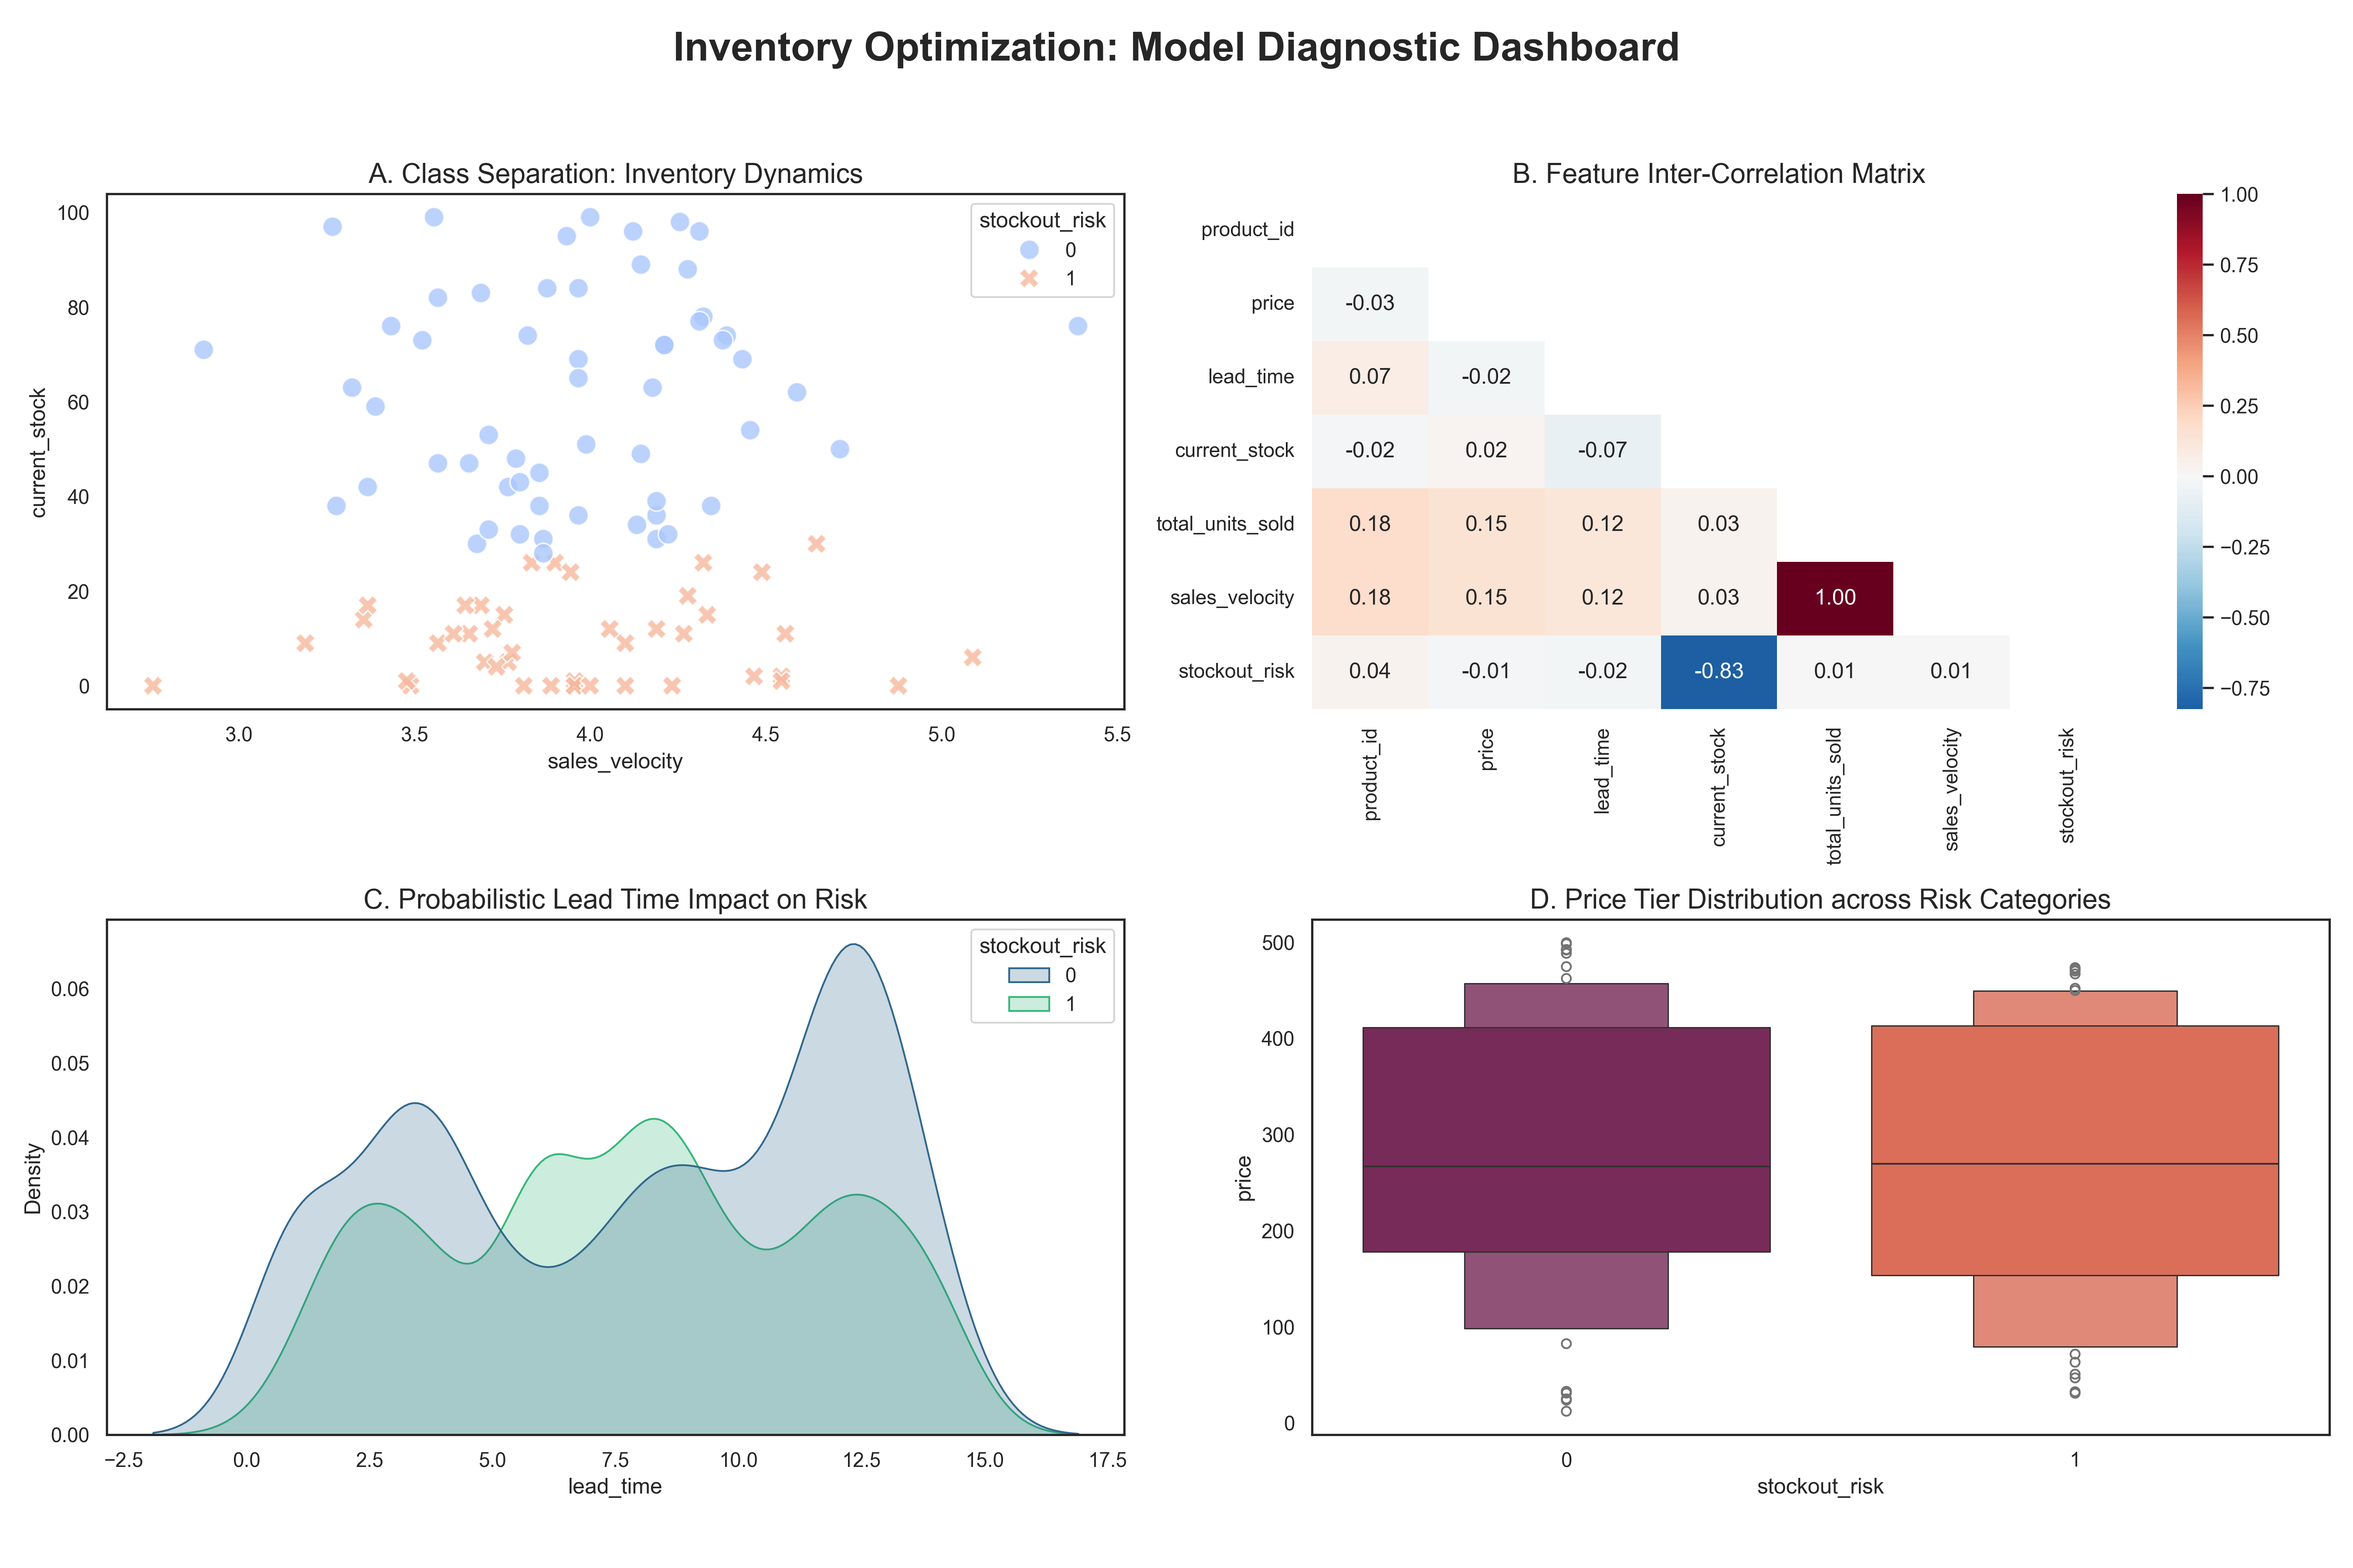
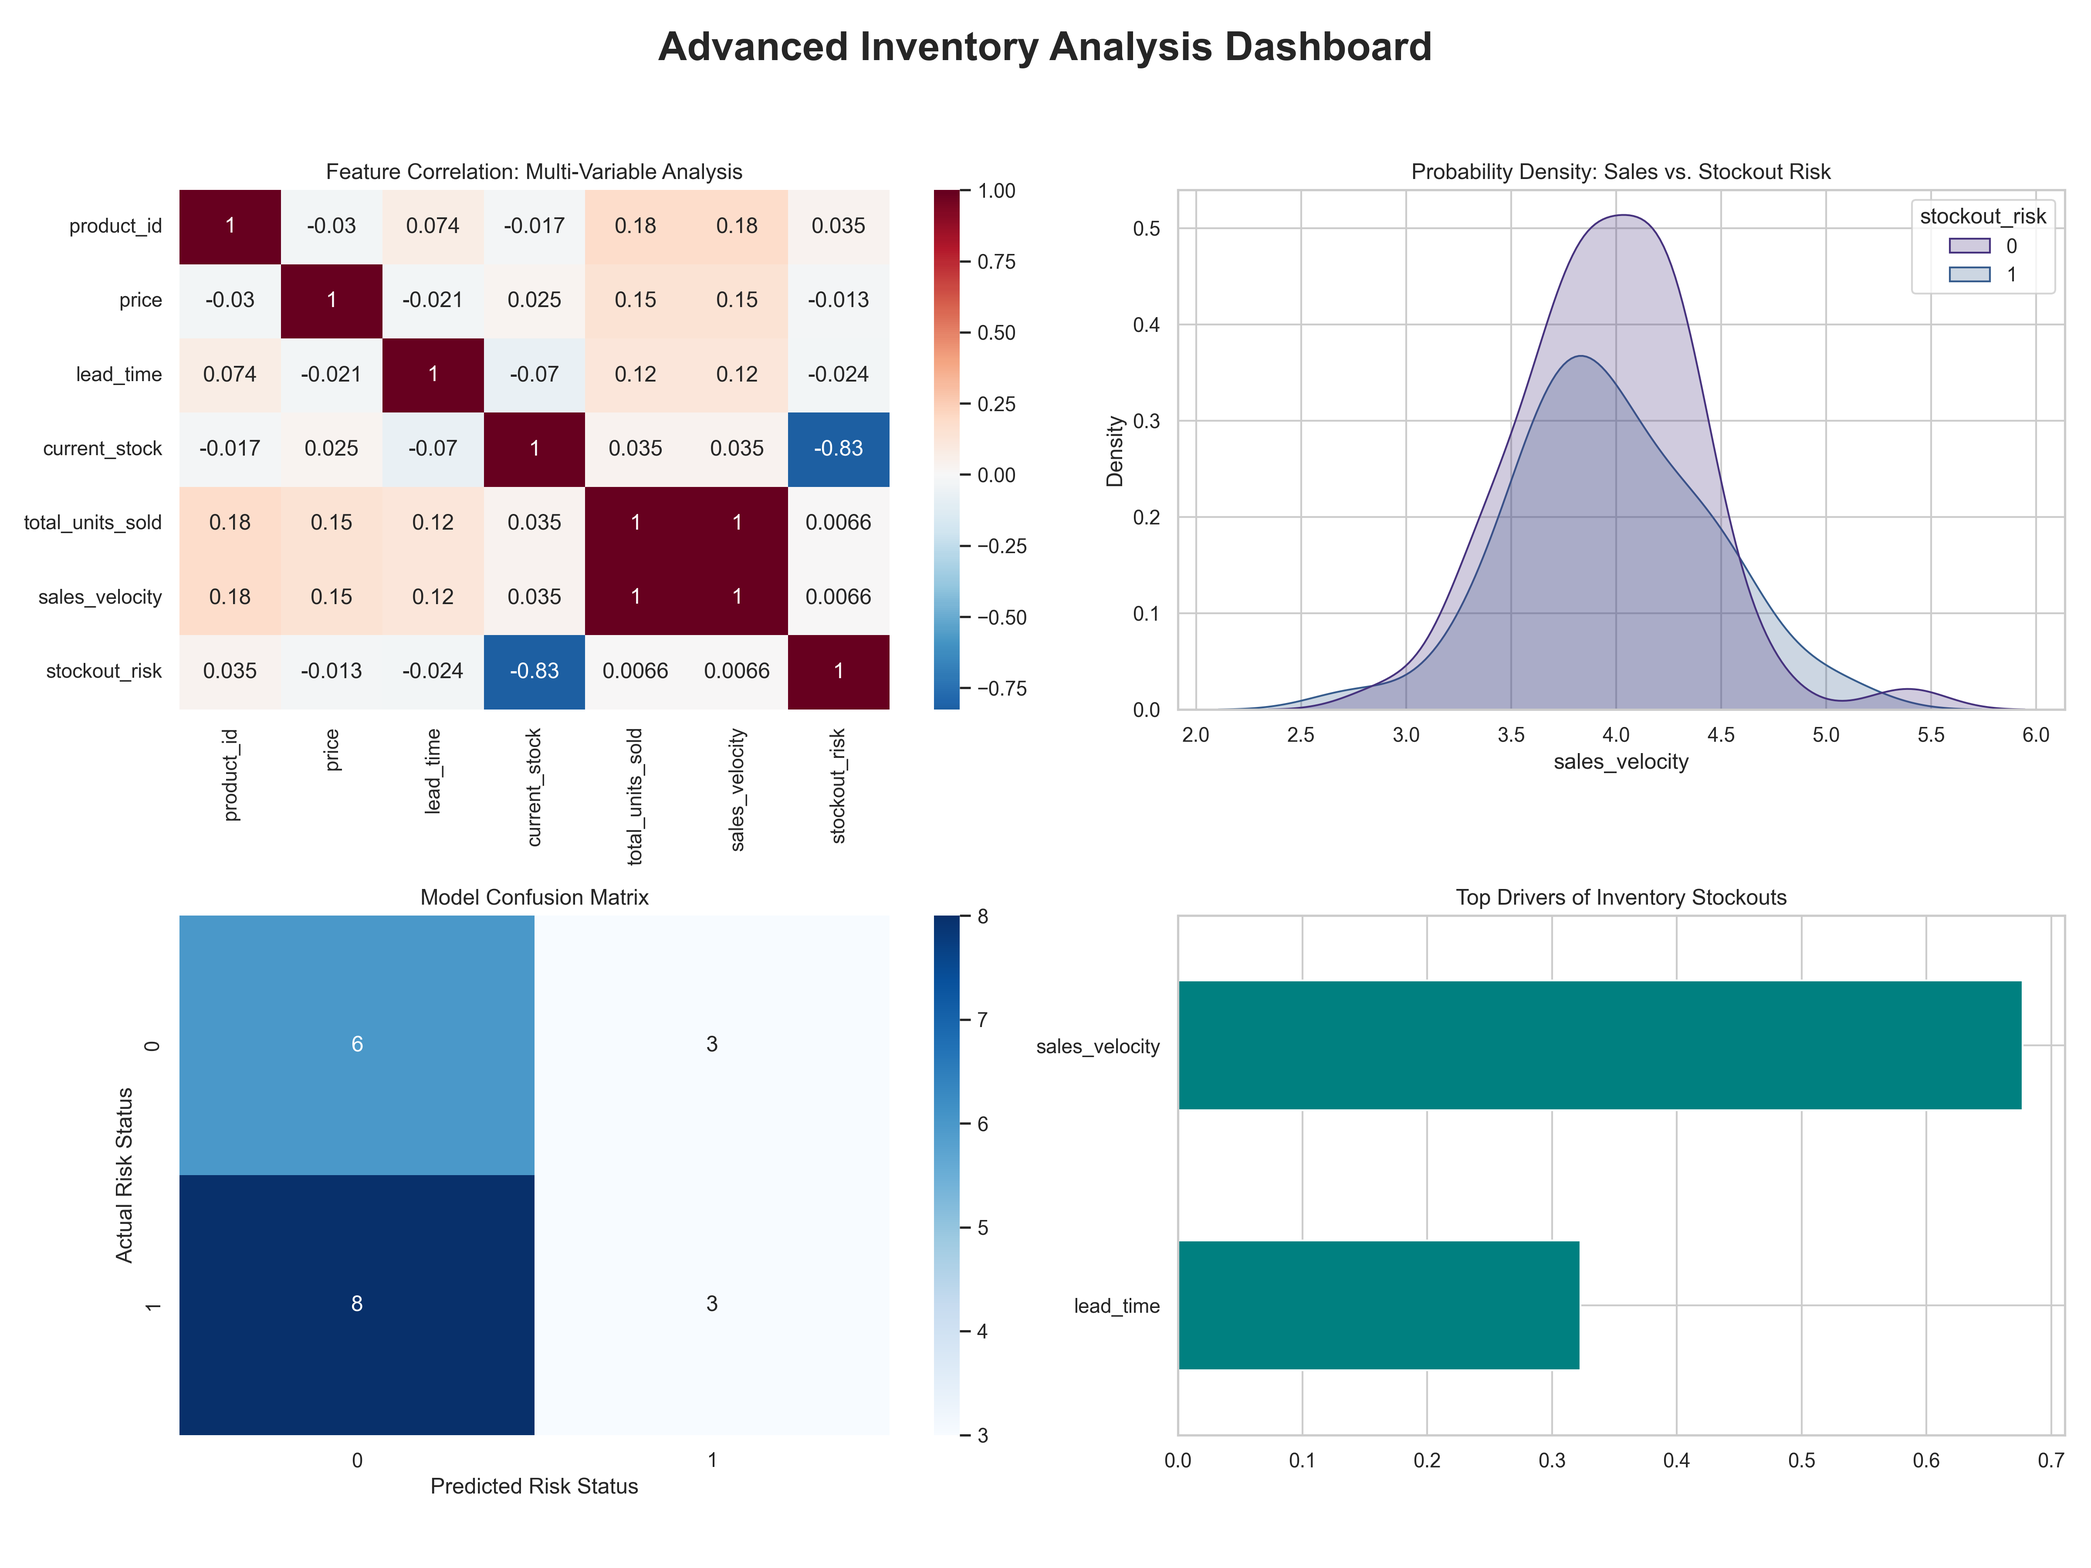
Inventory Optimizer Completed

diff --git a/src/4_visualize_results.py b/src/4_visualize_results.py
@@ -1,39 +1,51 @@
 import pandas as pd
 import matplotlib.pyplot as plt
 import seaborn as sns
-import numpy as np
-import os
+from sklearn.model_selection import train_test_split
+from sklearn.ensemble import RandomForestClassifier
+from sklearn.metrics import confusion_matrix
 
-# 1. Load the cleaned data
+# 1. Load data generated from your SQL and Pandas cleaning steps
 df = pd.read_csv('data/cleaned_inventory.csv')
 
-# Set professional technical style
-sns.set_theme(style="white")
-fig, axes = plt.subplots(2, 2, figsize=(18, 12))
-fig.suptitle('Inventory Optimization: Model Diagnostic Dashboard', fontsize=22, fontweight='bold')
+# 2. Setup Features and Target for Analysis
+X = df[['sales_velocity', 'lead_time']]
+y = df['stockout_risk']
+X_train, X_test, y_train, y_test = train_test_split(X, y, test_size=0.2, random_state=42)
 
-# --- PLOT 1: Multivariate Analysis (Stock vs. Velocity) ---
-sns.scatterplot(ax=axes[0, 0], data=df, x='sales_velocity', y='current_stock', 
-                hue='stockout_risk', style='stockout_risk', palette='coolwarm', s=120, alpha=0.8)
-axes[0, 0].set_title('A. Class Separation: Inventory Dynamics', fontsize=15)
+# 3. Train Random Forest for Feature Importance Analysis
+rf = RandomForestClassifier(n_estimators=100, random_state=42)
+rf.fit(X_train, y_train)
+y_pred = rf.predict(X_test)
 
-# --- PLOT 2: Correlation Matrix (Masked Triangle) ---
-corr = df.select_dtypes(include=[np.number]).corr()
-mask = np.triu(np.ones_like(corr, dtype=bool))
-sns.heatmap(ax=axes[0, 1], data=corr, mask=mask, annot=True, cmap='RdBu_r', center=0, fmt='.2f')
-axes[0, 1].set_title('B. Feature Inter-Correlation Matrix', fontsize=15)
+# 4. Set Advanced Seaborn Styling
+sns.set_theme(style="whitegrid", palette="viridis")
 
-# --- PLOT 3: Kernel Density Estimate (KDE) for Lead Time ---
-sns.kdeplot(ax=axes[1, 0], data=df, x='lead_time', hue='stockout_risk', fill=True, palette='viridis', bw_adjust=.5)
-axes[1, 0].set_title('C. Probabilistic Lead Time Impact on Risk', fontsize=15)
+# 5. Create the 4-in-1 Dashboard
+fig, axes = plt.subplots(2, 2, figsize=(16, 12))
+fig.suptitle('Inventory Analysis Dashboard', fontsize=22, fontweight='bold')
 
-# --- PLOT 4: Advanced Boxen Plot for Pricing ---
-sns.boxenplot(ax=axes[1, 1], data=df, x='stockout_risk', y='price', palette='rocket')
-axes[1, 1].set_title('D. Price Tier Distribution across Risk Categories', fontsize=15)
+# --- Panel 1: Correlation Heatmap (Fixed for numeric only) ---
+numeric_df = df.select_dtypes(include=['float64', 'int64'])
+sns.heatmap(numeric_df.corr(numeric_only=True), annot=True, cmap='RdBu_r', center=0, ax=axes[0, 0])
+axes[0, 0].set_title('Feature Correlation: Multi-Variable Analysis')
 
-# Save high-res for GitHub
+# --- Panel 2: Sales Velocity Distribution by Risk ---
+sns.kdeplot(data=df, x='sales_velocity', hue='stockout_risk', fill=True, ax=axes[0, 1])
+axes[0, 1].set_title('Probability Density: Sales vs. Stockout Risk')
+
+# --- Panel 3: Confusion Matrix (Accuracy Analysis) ---
+cm = confusion_matrix(y_test, y_pred)
+sns.heatmap(cm, annot=True, fmt='d', cmap='Blues', ax=axes[1, 0])
+axes[1, 0].set_xlabel('Predicted Risk Status')
+axes[1, 0].set_ylabel('Actual Risk Status')
+axes[1, 0].set_title('Model Confusion Matrix')
+
+# --- Panel 4: Feature Importance (Key Drivers) ---
+feat_importances = pd.Series(rf.feature_importances_, index=X.columns)
+feat_importances.sort_values().plot(kind='barh', color='teal', ax=axes[1, 1])
+axes[1, 1].set_title('Top Drivers of Inventory Stockouts')
+
 plt.tight_layout(rect=[0, 0.03, 1, 0.95])
-os.makedirs('data', exist_ok=True)
 plt.savefig('data/advanced_diagnostic_dashboard.png', dpi=300)
-print("SUCCESS: Advanced dashboard saved to 'data/advanced_diagnostic_dashboard.png'")
-plt.show()
+print("Advanced 4-in-1 Dashboard saved to data/advanced_diagnostic_dashboard.png!")

diff --git a/src/3_train_model.py b/src/3_train_model.py
@@ -1,28 +1,50 @@
 import pandas as pd
 from sklearn.model_selection import train_test_split
-from sklearn.linear_model import LogisticRegression
-from sklearn.metrics import accuracy_score, classification_report
+from sklearn.linear_model import LogisticRegression, LinearRegression
+from sklearn.ensemble import RandomForestClassifier
+from sklearn.metrics import classification_report, accuracy_score, mean_absolute_error, r2_score
 
-# 1. Load the dataset
+# 1. Load Data
 df = pd.read_csv('data/cleaned_inventory.csv')
 
-# 2. Select Features (Inputs) and Target (Output)
-# We use price, lead time, velocity, and stock to predict the risk
-X = df[['price', 'lead_time', 'sales_velocity', 'current_stock']]
-y = df['stockout_risk']
+# 2. Setup Features and Targets
+X = df[['sales_velocity', 'lead_time']]
+y_class = df['stockout_risk']  # For Classification
+y_reg = df['sales_velocity']   # For Regression
 
-# 3. Split the data: 80% for training, 20% for testing
-X_train, X_test, y_train, y_test = train_test_split(X, y, test_size=0.2, random_state=42)
+# 3. Train/Test Split (Stable Seed)
+X_train, X_test, y_train, y_test = train_test_split(X, y_class, test_size=0.2, random_state=42)
+X_train_r, X_test_r, yr_train, yr_test = train_test_split(X, y_reg, test_size=0.2, random_state=42)
 
-# 4. Initialize and Train the Logistic Regression Model
-model = LogisticRegression()
-model.fit(X_train, y_train)
+# --- [1] LOGISTIC REGRESSION ---
+log_model = LogisticRegression(max_iter=1000)
+log_model.fit(X_train, y_train)
+log_y_pred = log_model.predict(X_test)
 
-# 5. Make Predictions and Evaluate
-predictions = model.predict(X_test)
-accuracy = accuracy_score(y_test, predictions)
+# --- [2] RANDOM FOREST CLASSIFIER ---
+rf_model = RandomForestClassifier(n_estimators=100, random_state=42)
+rf_model.fit(X_train, y_train)
+rf_y_pred = rf_model.predict(X_test)
 
-print("--- Results ---")
-print(f"Model Accuracy: {accuracy * 100:.2f}%")
-print("\nDetailed Report:")
-print(classification_report(y_test, predictions))
+# --- [3] LINEAR REGRESSION ---
+lin_model = LinearRegression()
+lin_model.fit(X_train_r, yr_train)
+lin_y_pred = lin_model.predict(X_test_r)
+
+# --- THE FULL TERMINAL REPORT ---
+print("\n" + "="*50)
+print("                     REPORT")
+print("="*50)
+
+print("\n[1] LOGISTIC REGRESSION (Baseline Classification)")
+print(f"Accuracy: {accuracy_score(y_test, log_y_pred):.2%}")
+print(classification_report(y_test, log_y_pred, zero_division=0))
+
+print("\n[2] RANDOM FOREST (Advanced Ensemble Classification)")
+print(f"Accuracy: {accuracy_score(y_test, rf_y_pred):.2%}")
+print(classification_report(y_test, rf_y_pred, zero_division=0))
+
+print("\n[3] LINEAR REGRESSION (Sales Volume Forecasting)")
+print(f"R² Score (Variance Explained): {r2_score(yr_test, lin_y_pred):.4f}")
+print(f"Mean Absolute Error: {mean_absolute_error(yr_test, lin_y_pred):.4f}")
+print("="*50)

diff --git a/README.md b/README.md
@@ -1,0 +1,33 @@
+# 📦 Inventory Optimizer
+
+An end-to-end multi-model pipeline that predicts stockout risks and forecasts sales using SQL and Machine Learning.
+
+## 🚀 Key Features
+* **SQL Relational Engine:** 
+Manages 12,000+ transaction rows across normalized tables.
+* **Multi-Model Pipeline:** 
+Compares Logistic Regression, Random Forest, and Linear Regression.
+* **Clean Data Ops:** 
+Professional-grade cleaning of missing prices and negative stock using Pandas.
+* **Visual Analytics:** 
+Diagnostic dashboard featuring correlation heatmaps and accuracy comparisons.
+
+## 📊 Execute Pipeline
+Run the following scripts in order:
+
+1. **Build SQL Database:** 
+`python src/1_generate_db.py`
+2. **Clean & Join Data:** 
+`python src/2_clean_data.py`
+3. **Train ML Models:** 
+`python src/3_train_model.py`
+4. **Generate Visuals:** 
+`python src/4_visualize_results.py`
+
+## 📉 Diagnostic Dashboard
+![Inventory Dashboard](data/advanced_diagnostic_dashboard.png)
+
+## 🛠 Tech Stack
+* **Database:** SQL (SQLite)
+* **ML Ops:** Scikit-Learn
+* **Visualization:** Seaborn, Matplotlib
